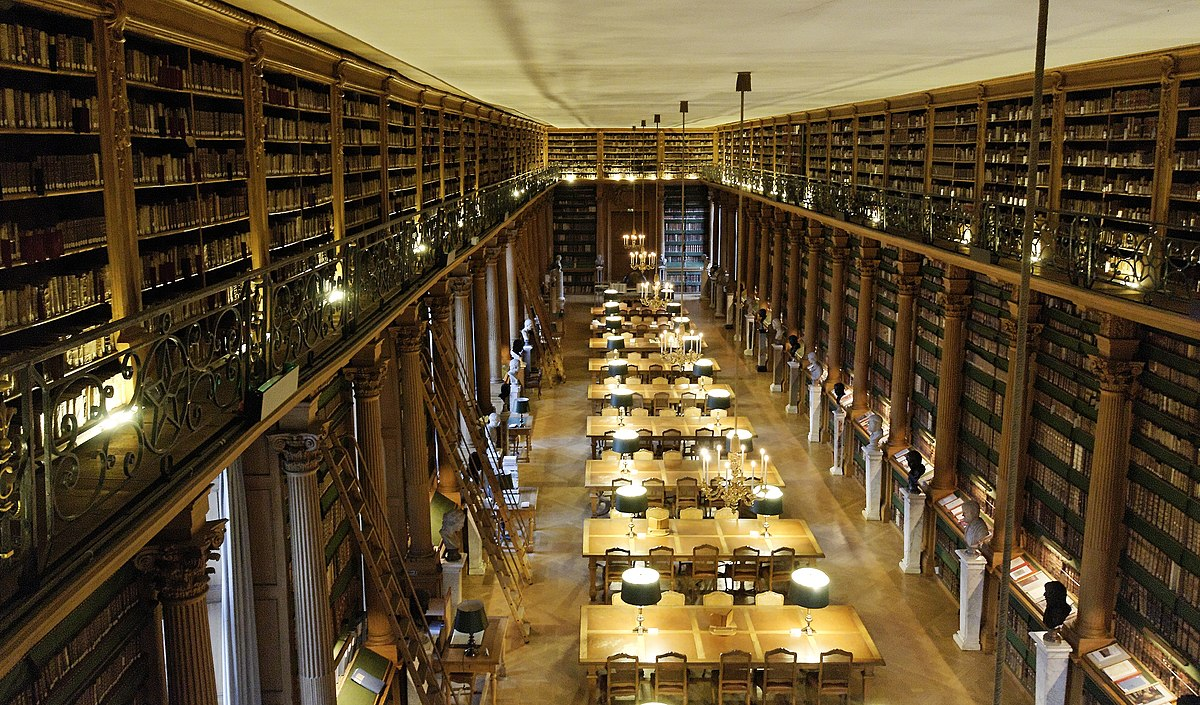
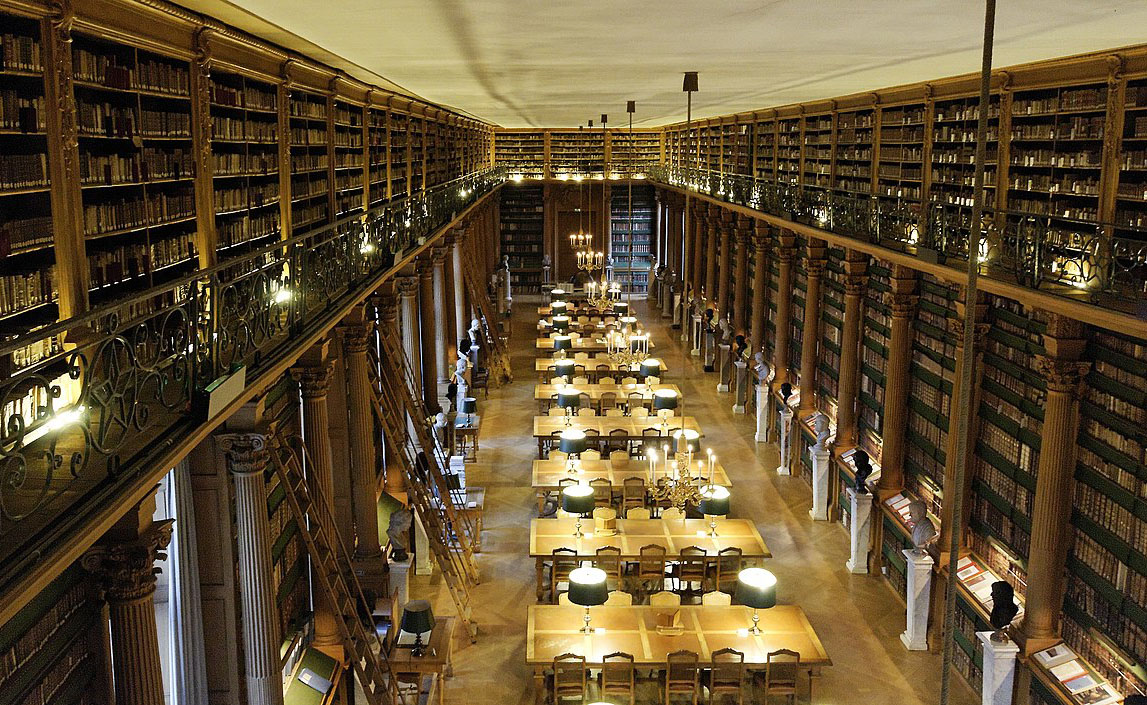
Resize image to fit and other changes

diff --git a/index.html b/index.html
@@ -27,7 +27,7 @@
     <div class="cover-image">
         <div class="alexandream">Alexandream</div>
         <div class="searchBar">
-            <input type="text" placeholder="Search for books and authors" />
+            <input type="text" placeholder="Search for books and authors, etc" />
         </div>
     </div>
 
@@ -72,7 +72,7 @@
 
 
         <!-- 2. Introduction paragraph -->
-        <div style="margin-left: 64px; width:50%;">
+        <div style="margin-left: 64px; width:40%;">
             <div style="font-weight:bold; font-size:48px; font-family:Montserrat; letter-spacing: -3px;">Alexandream</div>
             <div style="font-family: Quicksand; font-size: 28px;">Online Library Management</div>
             <div style="font-size:20px; margin-top: 48px;">
@@ -88,8 +88,8 @@
     <!-- Our team -->
     <div class="header">Our Team</div>
 
-    <div class="section">
-        <div style="font-size:24px; width: 50%;">Our team is made up of some of the best, brightest and most talented developers. The team share the same interests and under one dream to follow.</div>
+    <div class="section" style="margin-bottom: 32px;">
+        <div style="font-size:24px; width: 50%; font-weight: 300; text-align:center;">Our team is made up of some of the best, brightest and most talented developers. The team share the same interests and under one dream to follow.</div>
     </div>
 
     <div class="section">

diff --git a/homepage/style.css b/homepage/style.css
@@ -102,9 +102,8 @@
     margin: 12px 0px 24px 0px;
     text-align: center;
     width: 100%;
-    height: 96px;
     color: white;
-    font-size: 96px;
+    font-size: 110px;
     font-family: Montserrat;
     font-weight: 600;
     letter-spacing: -4px;
@@ -117,11 +116,12 @@
 }
 
     .searchBar input[type=text] {
+        outline: none;
         overflow: hidden;
         border: none;
-        font-size: 15px;
-        border-radius: 24px;
-        padding: 12px 24px;
+        font-size: 16px;
+        border-radius: 50px;
+        padding: 16px 32px;
         width: 100%;
     }
 
@@ -168,7 +168,7 @@
         margin: auto;
         text-align: center;
         font-size: 14px;
-        font-weight: lighter;
+        font-weight: 300;
     }
 
     .member img {
